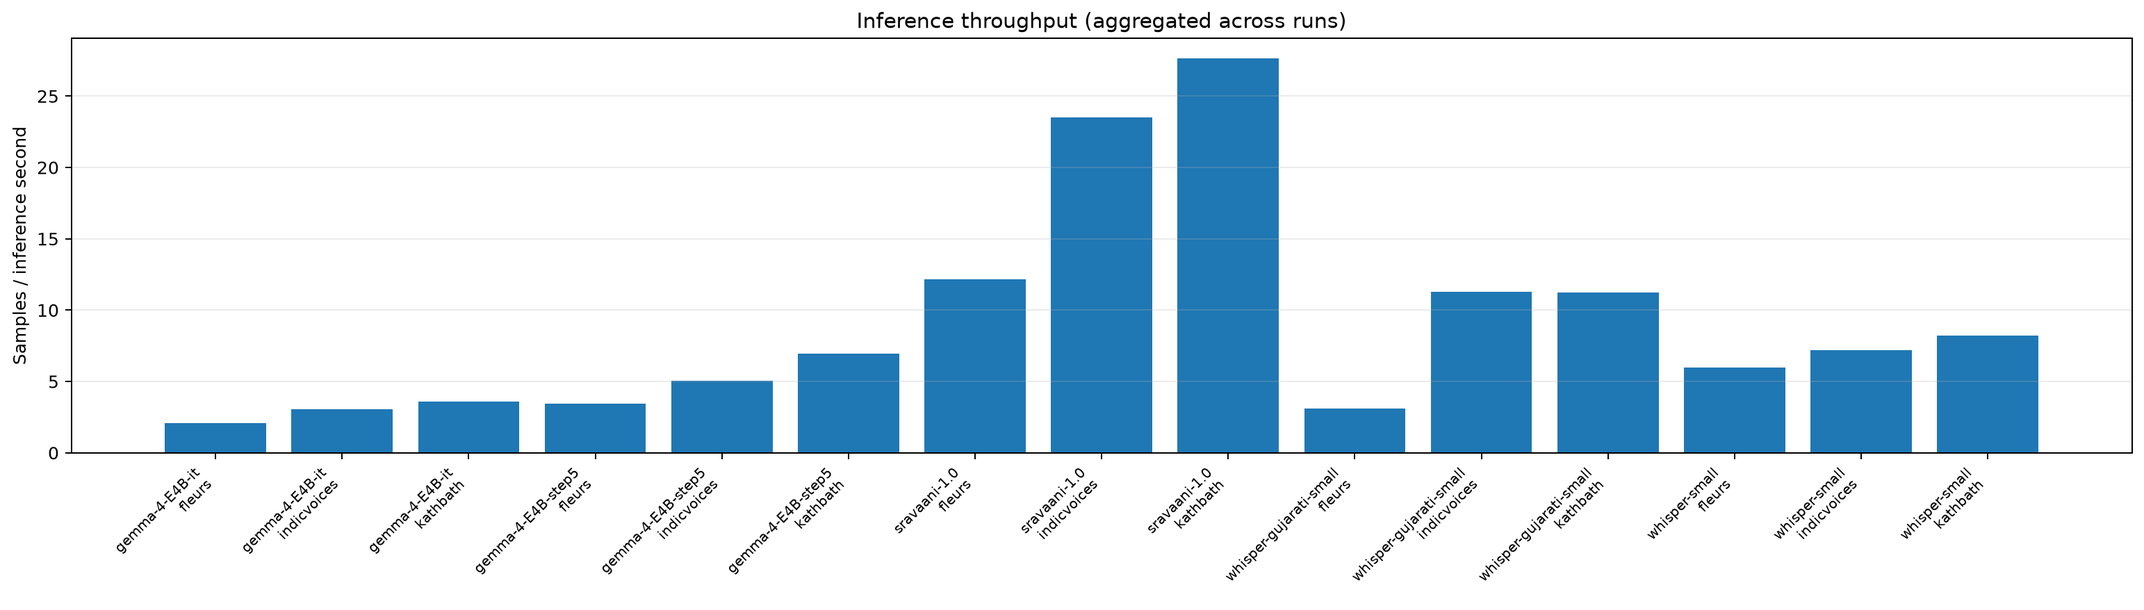
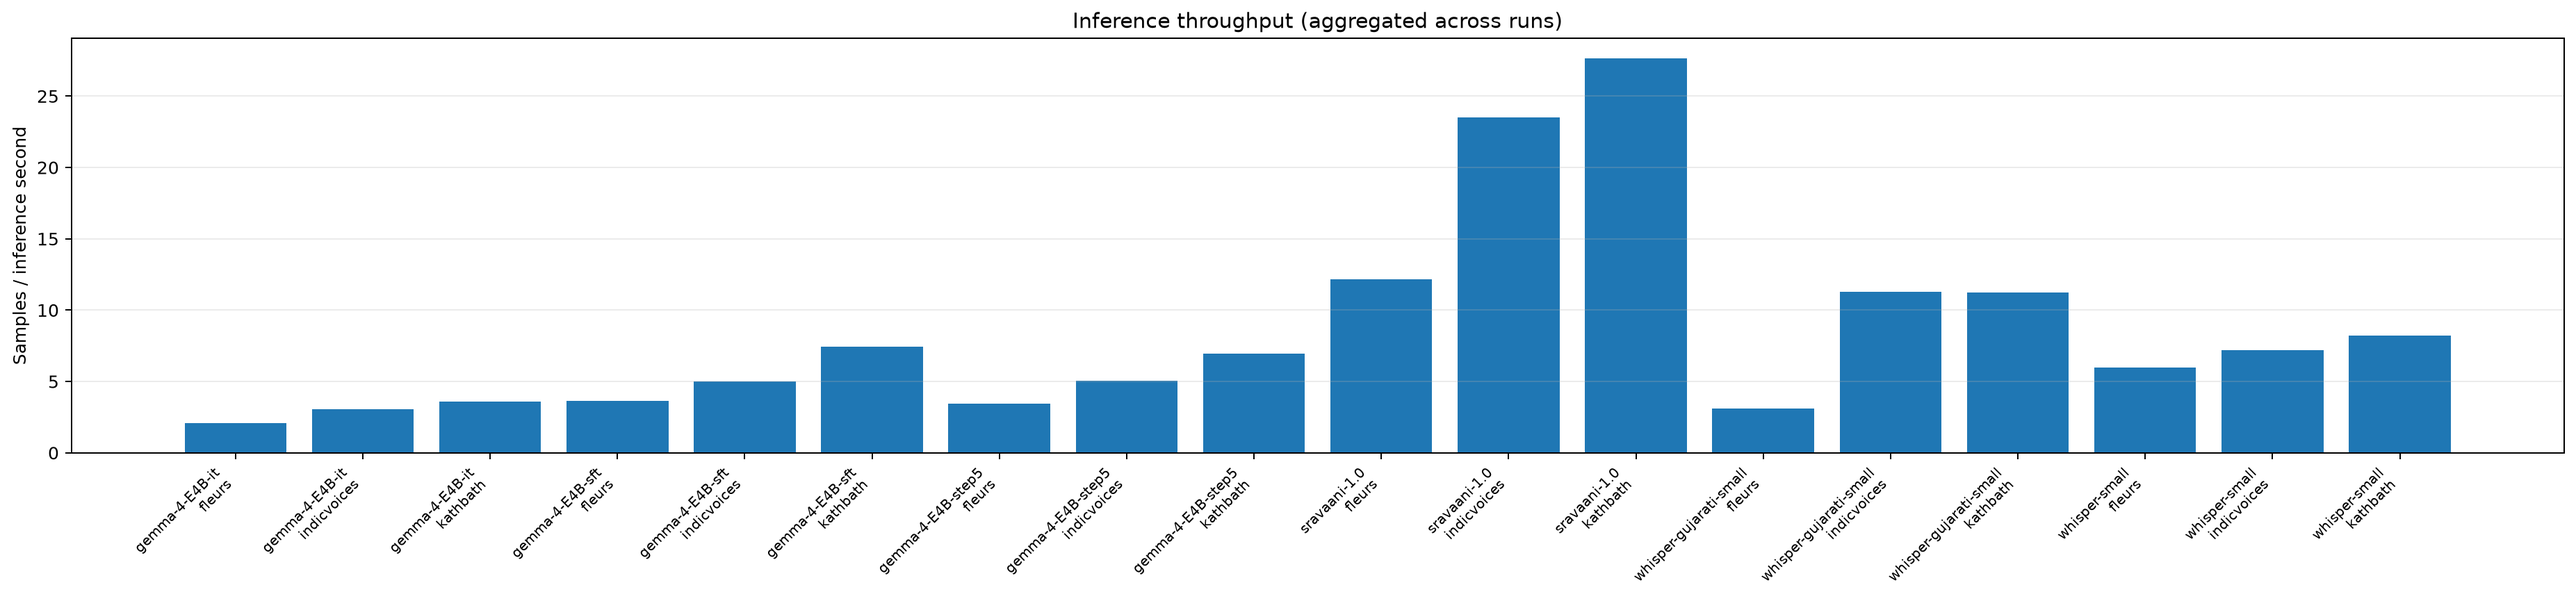
feat(sft): SUCCESS. Fixed multimodal alignment. Macro CER 10.01% -> 6.44%, Gap to SOTA halved. RTF improved to 0.0147.

diff --git a/results/benchmark_report_optimized.md b/results/benchmark_report_optimized.md
@@ -1,6 +1,6 @@
 # Gujarati ASR benchmark report (optimized runner)
 
-Generated: 2026-11-06T11:08:12.703058+00:00
+Generated: 2026-11-06T18:12:38.519780+00:00
 Database: `/data/gujarati-asr-sota/results/predictions_optimized.sqlite`
 
 ## Evaluation protocol
@@ -15,18 +15,21 @@ Database: `/data/gujarati-asr-sota/results/predictions_optimized.sqlite`
 | Dataset | Model | N | Coverage | Corpus WER | Corpus CER | Mean capped CER | Median RTF |
 |---|---|---|---|---|---|---|---|
 | fleurs | gemma-4-E4B-it | 1000 | 100.0% | 24.68% | 7.77% | 7.94% | 0.0437 |
+| fleurs | gemma-4-E4B-sft | 1000 | 100.0% | 19.22% | 5.63% | 5.72% | 0.0147 |
 | fleurs | gemma-4-E4B-step5 | 1000 | 100.0% | 24.14% | 7.35% | 7.58% | 0.0254 |
 | fleurs | indic-transcribe-core | 1000 | 100.0% | 15.87% | 5.01% | 5.27% | 0.0774 |
 | fleurs | sravaani-1.0 | 1000 | 100.0% | 17.36% | 5.37% | 5.64% | 0.0062 |
 | fleurs | whisper-gujarati-small | 1000 | 100.0% | 27.75% | 10.92% | 9.11% | 0.0110 |
 | fleurs | whisper-small | 1000 | 100.0% | 258.29% | 102.43% | 86.91% | 0.0126 |
 | indicvoices | gemma-4-E4B-it | 2968 | 100.0% | 35.91% | 16.59% | 24.76% | 0.0512 |
+| indicvoices | gemma-4-E4B-sft | 2968 | 100.0% | 23.93% | 9.27% | 15.28% | 0.0191 |
 | indicvoices | gemma-4-E4B-step5 | 2968 | 100.0% | 35.25% | 15.90% | 24.16% | 0.0310 |
 | indicvoices | indic-transcribe-core | 2968 | 100.0% | 15.88% | 5.36% | 8.96% | 0.0822 |
 | indicvoices | sravaani-1.0 | 2968 | 100.0% | 20.95% | 7.31% | 21.86% | 0.0068 |
 | indicvoices | whisper-gujarati-small | 2968 | 100.0% | 50.09% | 36.23% | 39.41% | 0.0120 |
 | indicvoices | whisper-small | 2968 | 100.0% | 313.38% | 149.52% | 89.34% | 0.0193 |
 | kathbath | gemma-4-E4B-it | 2905 | 100.0% | 25.81% | 7.77% | 7.46% | 0.0455 |
+| kathbath | gemma-4-E4B-sft | 2905 | 100.0% | 17.52% | 4.41% | 4.37% | 0.0146 |
 | kathbath | gemma-4-E4B-step5 | 2905 | 100.0% | 24.35% | 6.79% | 6.79% | 0.0254 |
 | kathbath | indic-transcribe-core | 2905 | 100.0% | 12.00% | 2.41% | 2.39% | 0.0822 |
 | kathbath | sravaani-1.0 | 2905 | 100.0% | 12.73% | 2.67% | 2.66% | 0.0064 |
@@ -38,6 +41,7 @@ Database: `/data/gujarati-asr-sota/results/predictions_optimized.sqlite`
 | Model | Total N | Macro WER | Macro CER | Pooled WER | Pooled CER |
 |---|---|---|---|---|---|
 | gemma-4-E4B-it | 6873 | 28.80% | 10.71% | 30.21% | 11.49% |
+| gemma-4-E4B-sft | 6873 | 20.22% | 6.44% | 20.82% | 6.74% |
 | gemma-4-E4B-step5 | 6873 | 27.92% | 10.01% | 29.31% | 10.76% |
 | indic-transcribe-core | 6873 | 14.58% | 4.26% | 14.60% | 4.24% |
 | sravaani-1.0 | 6873 | 17.01% | 5.12% | 17.48% | 5.24% |
@@ -77,3 +81,13 @@ Database: `/data/gujarati-asr-sota/results/predictions_optimized.sqlite`
 | gemma-4-E4B-step5 | fleurs | 980 | 3.568 | 37.379 | 16 | multimodal_step5_batch | 8 | 16.92 |
 | gemma-4-E4B-step5 | indicvoices | 2968 | 5.071 | 33.224 | 16 | multimodal_step5_batch | 8 | 17.00 |
 | gemma-4-E4B-step5 | kathbath | 2905 | 6.944 | 39.656 | 16 | multimodal_step5_batch | 8 | 17.00 |
+| gemma-4-E4B-sft | fleurs | 1000 | 3.314 | 34.779 | 16 | multimodal_sft_batch | 8 | 17.81 |
+| gemma-4-E4B-sft | indicvoices | 2968 | 4.126 | 27.030 | 16 | multimodal_sft_batch | 8 | 17.92 |
+| gemma-4-E4B-sft | kathbath | 2905 | 6.268 | 35.794 | 16 | multimodal_sft_batch | 8 | 17.92 |
+| gemma-4-E4B-sft | fleurs | 1000 | 2.804 | 29.426 | 16 | multimodal_sft_batch | 8 | 17.82 |
+| gemma-4-E4B-sft | indicvoices | 2968 | 4.167 | 27.298 | 16 | multimodal_sft_batch | 8 | 17.93 |
+| gemma-4-E4B-sft | kathbath | 2905 | 6.253 | 35.706 | 16 | multimodal_sft_batch | 8 | 17.93 |
+| gemma-4-E4B-sft | fleurs | 20 | 2.248 | 25.575 | 24 | multimodal_sft_merged_batch | 8 | 17.33 |
+| gemma-4-E4B-sft | fleurs | 1000 | 5.981 | 62.766 | 32 | multimodal_sft_merged_batch | 8 | 19.04 |
+| gemma-4-E4B-sft | indicvoices | 2968 | 8.466 | 55.466 | 32 | multimodal_sft_merged_batch | 8 | 19.19 |
+| gemma-4-E4B-sft | kathbath | 2905 | 11.966 | 68.335 | 32 | multimodal_sft_merged_batch | 8 | 19.19 |
